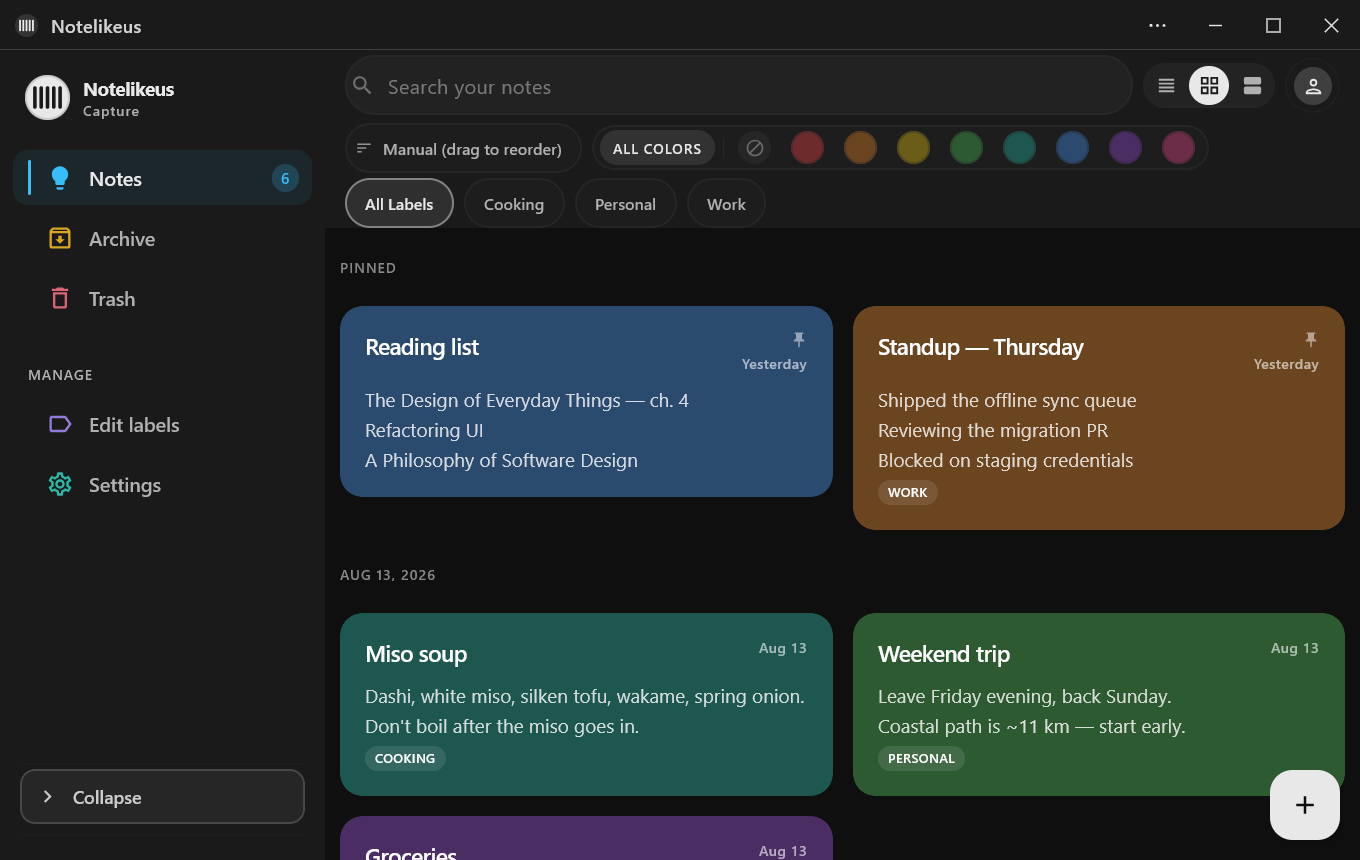
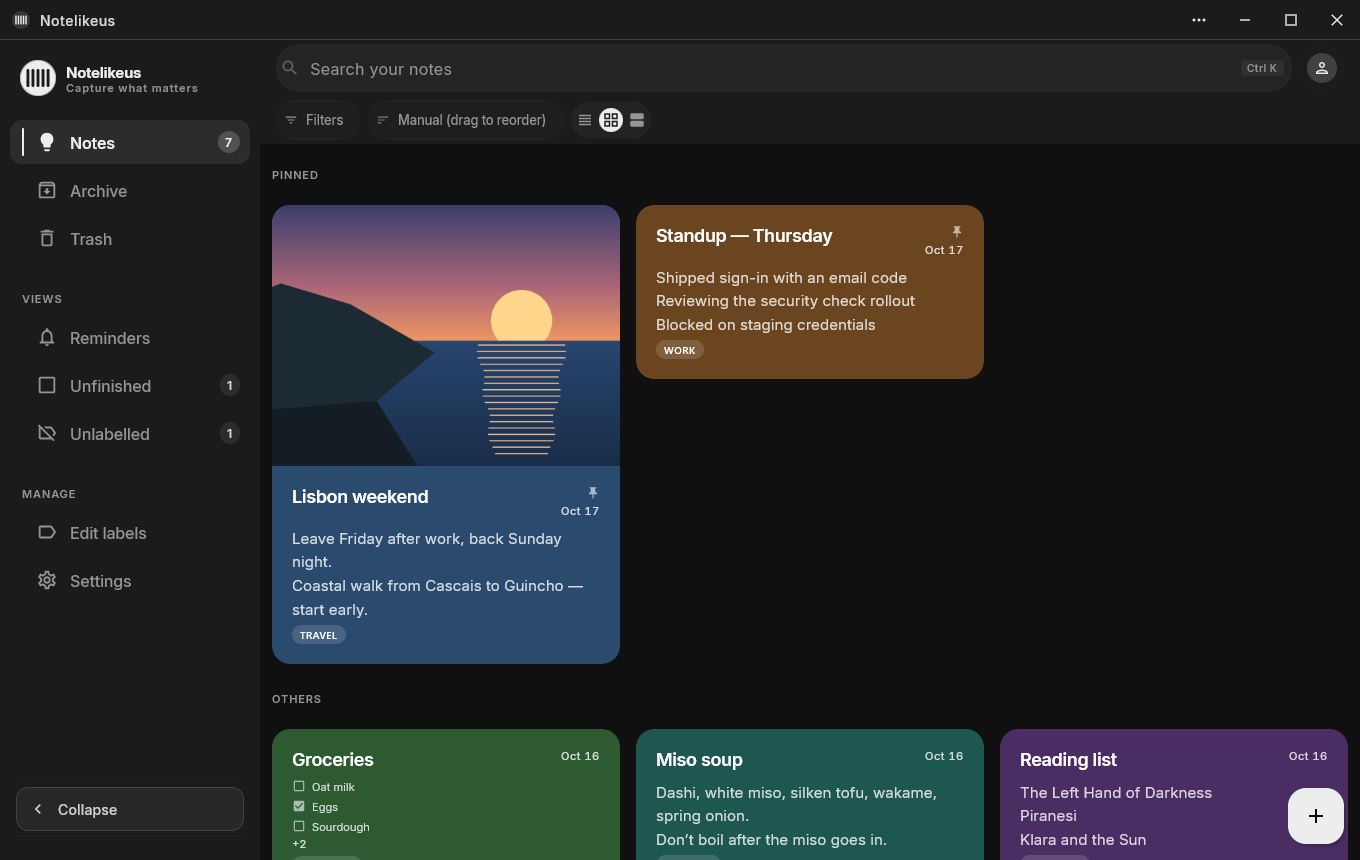
docs(readme): refresh the Windows screenshot for 2.3.1
The old one dated from 2026-09-08: it showed the "Capture" tagline, a
Collapse arrow pointing the wrong way, colour filters in the toolbar, and no
image on any card. The new one is the 2.3.1 desktop window at 1360x860 in the
dark theme, with the README seed (web/scripts/readme-screenshot-seed.nlkbak)
imported, the same notes the web screenshots show.

Captured from a throwaway launcher run against a scratch profile (APPDATA
and user.home in a temp folder), so no real notes were involved. The alt
text now describes what the screenshot shows.

diff --git a/README.md b/README.md
@@ -12,7 +12,7 @@ Android and Windows share a Kotlin Multiplatform core with a Compose UI. The web
 
 **Windows**
 
-<img src="screenshots/windows-notes.png" width="800" alt="Notelikeus on Windows: pinned notes, label and colour filters, collapsible side rail" />
+<img src="screenshots/windows-notes.png" width="800" alt="Notelikeus on Windows: a pinned image note and coloured notes with labels, the Filters button, and the collapsible side rail with smart views" />
 
 **Web**
 
